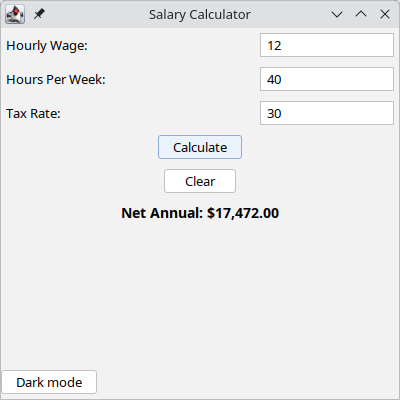
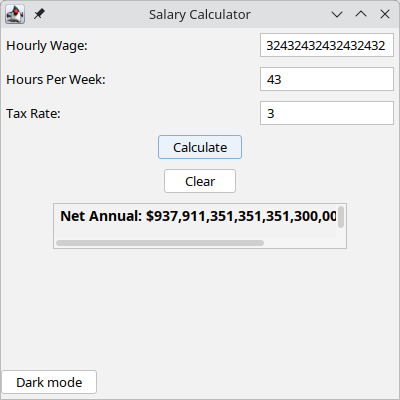
added scroll bar to calculator to prevent gui from messing up with big numbers

diff --git a/src/com/group7/view/SalaryGUI.java b/src/com/group7/view/SalaryGUI.java
@@ -14,7 +14,7 @@ public class SalaryGUI extends JFrame implements ActionListener {
     private JTextField hourlyWagefield;
     private JTextField hoursPerWeekfield;
     private JTextField taxRateField;
-    private JLabel resultLabel;
+    private JTextArea resultLabel;
     private JButton calculate;
     private JButton clear;
 
@@ -121,9 +121,11 @@ public class SalaryGUI extends JFrame implements ActionListener {
 
         gbc.gridx = 0;
         gbc.gridy = 7;
-        resultLabel = new JLabel("", SwingConstants.CENTER);
+        resultLabel = new JTextArea(2, 20);
+        resultLabel.setEditable(false);
         resultLabel.setFont(new Font("Arial", Font.BOLD, 14));
-        frame.add(resultLabel, gbc);
+        JScrollPane scrollPane = new JScrollPane(resultLabel);
+        frame.add(scrollPane, gbc);
 
         darkMode();
         frame.setVisible(true);
